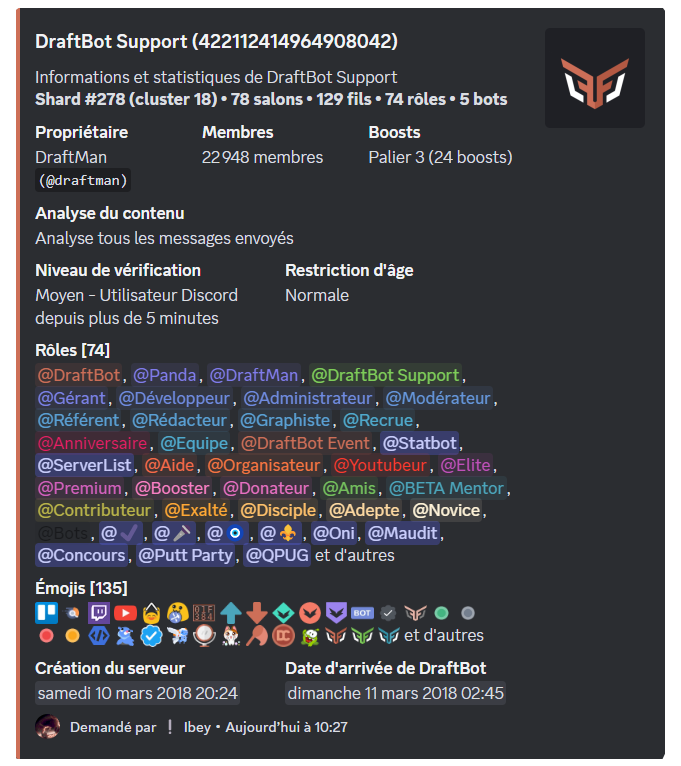
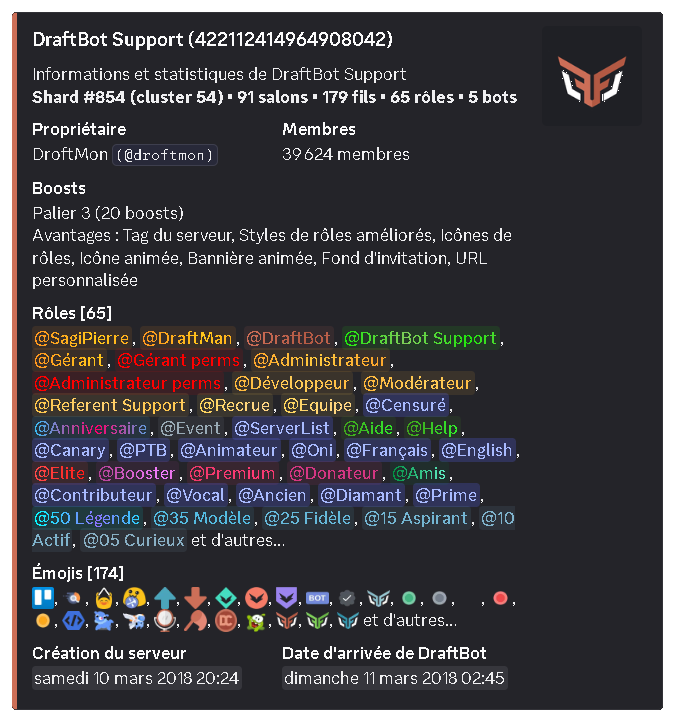
Version 6.18.0 (#394)

diff --git a/docs/fr/12.appendices/0.changelog/1.2026.md b/docs/fr/12.appendices/0.changelog/1.2026.md
@@ -8,6 +8,37 @@ noindex: true
 translate: false
 ---
 
+## 6.18.0 - 16/09/2026
+
+[Lien du message](https://discord.com/channels/422112414964908042/599942732559024138/1549854409972785275)
+
+**💬 Snippets : une réponse écrite une fois, envoyée par un humain**
+
+**C'est vous qui envoyez, pas le bot.** Tapez `/snippet`, choisissez une réponse : elle s'affiche pour vous seul, prête à copier. Vous ajustez la mention, ajoutez un mot pour la personne en face : elle reçoit une réponse écrite par quelqu'un, pas un message automatique.
+
+- **Vos dernières réponses en tête, et une recherche qui fouille le contenu**, pas seulement le titre.
+- **Des réponses de serveur rangées par catégorie**, depuis `/config` > Snippets. Chaque catégorie porte ses rôles autorisés à lire et ceux autorisés à ajouter ; sans rôle, elle est lisible par tout le serveur.
+- **Des réponses personnelles qui vous suivent partout**, d'un serveur à l'autre et jusque dans vos messages privés. **Ajouter au serveur** en fait une réponse d'équipe en un clic.
+- **Un message existant devient une réponse** par clic droit, Applications, **Enregistrer comme réponse**, images comprises.
+
+**🧭 Un panel plus ergonomique**
+
+Le menu d'un serveur a été repensé : un champ **Rechercher un module** en haut, puis 5 groupes (Accueil des membres, Engagement, Sécurité, Communication, Communauté). Les **Paramètres** deviennent une vraie page, celle sur laquelle un serveur s'ouvre désormais, et la page Communautaire laisse place à trois pages dédiées.
+
+- **Salons vocaux temporaires** : chaque hub a sa propre page en quatre sections. La création ne demande plus que la catégorie et le salon, le nom des salons s'affiche en aperçu, et des avertissements vous donnent des conseils lorsque certaines options sont sans effet au lieu de les cacher.
+- **Signalements** : ajout d'une modal de configuration rapide (salon et rôles modérateurs). La page vous alerte si le système est coupé, si aucun rôle modérateur n'est choisi ou si aucune sanction ne peut être proposée à vos modérateurs.
+- **Starboards** : fini les tiroirs « Avancé », tous les réglages sont visibles d'un coup, et la suppression demande confirmation.
+
+**<:icon_settings:1120818166067646664> Et aussi**
+
+- **`/avatar` affiche aussi les bannières.** Un menu choisit l'avatar ou la bannière, de serveur ou d'utilisateur, un autre la taille.
+- **`/info serveur` liste les avantages débloqués** sur le serveur : tag du serveur, icônes de rôles, bannière animée, URL personnalisée...
+- **`/boutique` plus lisible** : les rôles s'affichent en mention, les prix en chiffres complets.
+- **`/suggestmod classement` trie aussi par ordre d'arrivée** <:premium:1354302524538224832>, des plus récentes ou des plus anciennes.
+- **`/journalier` respecte enfin les rôles sans gain d'argent.**
+- **Fichiers jusqu'à 20 Mo.** Discord a relevé sa limite d'envoi de 10 à 20 Mo pour tous les serveurs, DraftBot suit : signalements, `/envoyer`, `/copier` et `/deplacer` acceptent ces fichiers.
+- **Les rôles d'application ne sont plus proposés** dans les sélecteurs de rôles, aucun membre ne pouvant les porter. Le rôle Booster et les rôles d'abonnés, eux, redeviennent sélectionnables pour les signalements, les suggestions et les réactions de mots.
+
 
 ## 6.17.0 - 25/08/2026
 [Lien du message](https://discord.com/channels/422112414964908042/599942732559024138/1541738369325867050)

diff --git a/docs/fr/10.utilities/0.info-commands.md b/docs/fr/10.utilities/0.info-commands.md
@@ -36,6 +36,7 @@ La commande \</info serveur> vous permet d'obtenir les informations détaillées
 - Le shard et le cluster où il se trouve dans la page "[Statuts](/status)".
 - Le pseudonyme du propriétaire.
 - Le nombre de membres, de salons, de fils, de rôles, d'émojis, de bots et de boosts.
+- Les différents avantages du serveur : Tag du serveur, Styles de rôles améliorés, Icônes de rôles, Icône animée, Bannière animée, Fond d'invitation, URL personnalisée
 - Le niveau de sécurité : la vérification et la restriction d'âge.
 - La date de création du serveur.
 - La date d'arrivée de DraftBot sur le serveur.
